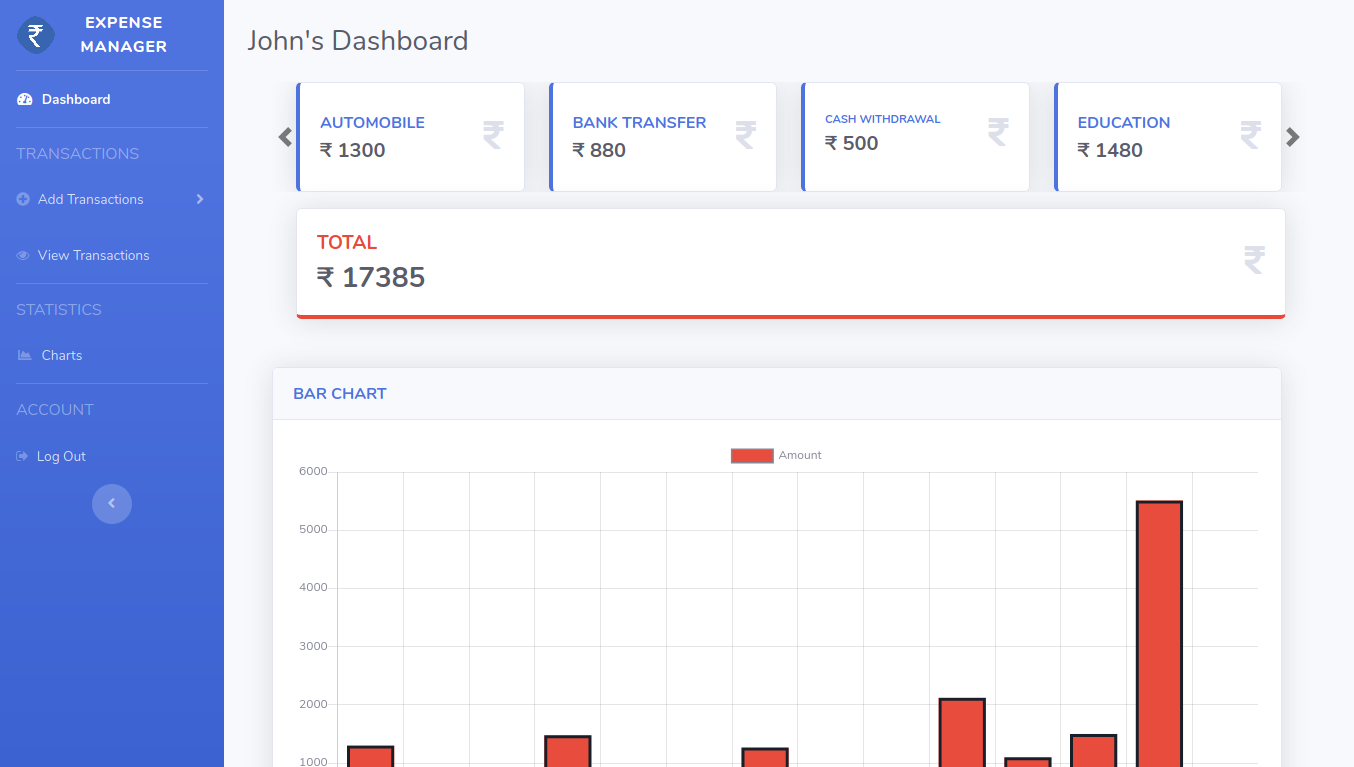
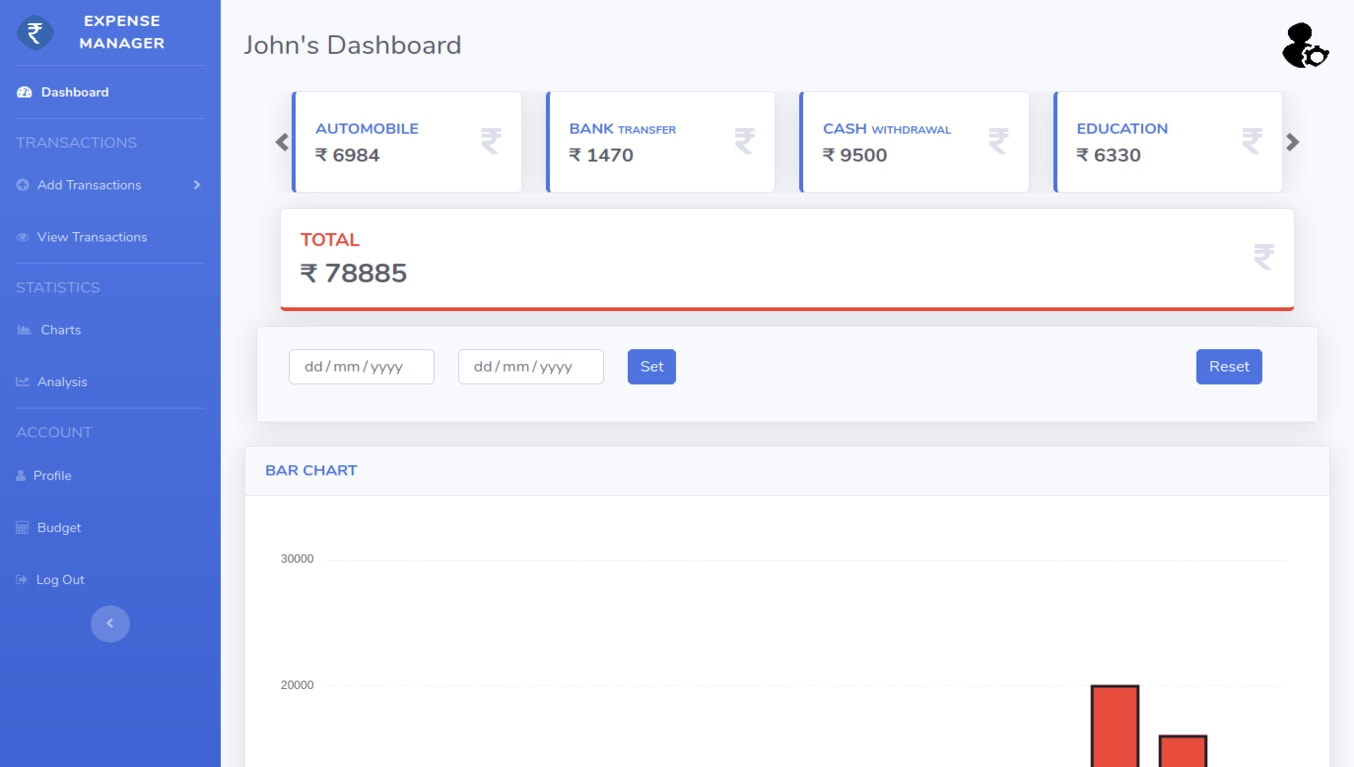
Add Demo for laptop users

diff --git a/templates/home.html b/templates/home.html
@@ -29,7 +29,7 @@
     <meta charset="utf-8">
     <link href="https://fonts.googleapis.com/css?family=Nunito:200,200i,300,300i,400,400i,600,600i,700,700i,800,800i,900,900i"
           rel="stylesheet">
-    <meta name="viewport" content="width=device-width, initial-scale=1, shrink-to-fit=no">
+    <meta name="viewport" content="width=smartphone-width, initial-scale=1, shrink-to-fit=no">
     <link href="{% static 'imp/vendor/fontawesome-free/css/all.min.css' %}" rel="stylesheet" type="text/css">
     <link href="{% static 'imp/css/sb-admin-2.min.css' %}" rel="stylesheet">
     <!-- Bootstrap CSS -->
@@ -193,6 +193,186 @@
     });
 </script>
 
+<!-- MAC DEMO AREA STARTS -->
+
+<style>
+
+    .device {
+        position: relative;
+        background-size: auto;
+    }
+
+    .device-mockup.imac {
+        padding-bottom: 81.230769%;
+    }
+
+    .device-mockup {
+        position: relative;
+        width: 100%;
+        padding-bottom: 61.775701%;
+    }
+
+
+    .device-mockup.imac > .device {
+        background-image: url("https://d1r27dnp1fh4g5.cloudfront.net/i/imac.webp");
+    }
+
+    .device-mockup > .device {
+        position: absolute;
+        top: 0;
+        right: 0;
+        bottom: 0;
+        left: 0;
+        width: 100%;
+        height: 100%;
+        background-repeat: no-repeat;
+        background-size: 100% 100%;
+    }
+
+    .device-mockup.imac > .device > .screen {
+        top: 8.20707071%;
+        right: 6.61538462%;
+        bottom: 31.6919192%;
+        left: 6.61538462%;
+    }
+
+    .device-mockup > .device > .screen {
+        position: absolute;
+        top: 11.0438729%;
+        right: 13.364486%;
+        bottom: 14.6747352%;
+        left: 13.364486%;
+        overflow: hidden;
+        overflow-y: hidden;
+    }
+
+    .device .screen {
+        position: absolute;
+        pointer-events: none;
+        background-size: cover;
+    }
+
+    * {
+        -webkit-box-sizing: border-box;
+        -moz-box-sizing: border-box;
+        box-sizing: border-box;
+    }
+
+</style>
+
+<div class="container-fluid d-none d-xl-block">
+    <div class="row heading heading-icon mt-5 mb-auto">
+        <h2>Quick Demo</h2>
+    </div>
+    <div class="device-mockup imac mb-small col-lg-12 mx-auto">
+        <div class="device">
+            <div class="screen" style="overflow-y: auto; pointer-events: all;">
+                <iframe src="http://127.0.0.1:8001/dashboard"
+                        allowfullscreen="allowfullscreen" allowpaymentrequest="" style="position: absolute;"
+                        width="100%"
+                        height="100%" frameborder="0"></iframe>
+            </div>
+        </div>
+    </div>
+</div>
+
+
+<!-- MAC DEMO AREA ENDS -->
+
+
+<!-- IPHONE DEMO AREA STARTS -->
+
+<style>
+
+    .smartphone {
+        position: relative;
+        background-size: auto;
+    }
+
+    .smartphone-mockup.imac {
+        padding-bottom: 81.230769%;
+    }
+
+    .smartphone-mockup {
+        position: relative;
+        width: 100%;
+        padding-bottom: 61.775701%;
+    }
+
+
+    .smartphone-mockup.imac > .smartphone {
+        background-image: url("/static/images/iphone.png");
+        /*width: 400px;*/
+        /*height: 500px;*/
+    }
+
+    .smartphone-mockup > .smartphone {
+        position: absolute;
+        top: 0;
+        right: 0;
+        bottom: 0;
+        left: 0;
+        width: 100%;
+        height: 100%;
+        background-repeat: no-repeat;
+        background-size: 100% 100%;
+    }
+
+    .smartphone-mockup.imac > .smartphone > .screen {
+        top: 21.62%;
+        right: 33.64%;
+        bottom: 22.38%;
+        left: 34.87%;
+    }
+
+    .smartphone-mockup > .smartphone > .screen {
+        position: absolute;
+        /*top: 11.0438729%;*/
+        /*right: 13.364486%;*/
+        /*bottom: 14.6747352%;*/
+        /*left: 13.3644%;*/
+        /*overflow: auto;*/
+        /*overflow-y: auto;*/
+    }
+
+    .smartphone .screen {
+        position: absolute;
+        pointer-events: none;
+        background-size: auto;
+    }
+
+    /** {*/
+    /*    -webkit-box-sizing: border-box;*/
+    /*    -moz-box-sizing: border-box;*/
+    /*    box-sizing: border-box;*/
+    /*}*/
+
+</style>
+
+
+<!--<div class="container-fluid mt-5 ">-->
+<!--    <div class="col-xs-10 mx-auto">-->
+<!--        <div class="row heading heading-icon">-->
+<!--            <h2>Quick Demo</h2>-->
+<!--        </div>-->
+<!--        <div class="smartphone-mockup imac mb-small">-->
+<!--            <div class="smartphone img-fluid" style="max-width: 100%; height: auto;">-->
+<!--                <div class="screen" style="overflow-y: auto; pointer-events: all;">-->
+<!--                    <iframe src="http://127.0.0.1:8001/dashboard"-->
+<!--                            allowfullscreen="allowfullscreen" allowpaymentrequest="" style="position: absolute;"-->
+<!--                            width="100%"-->
+<!--                            height="100%" frameborder="0">-->
+<!--                    </iframe>-->
+<!--                </div>-->
+<!--            </div>-->
+<!--        </div>-->
+<!--    </div>-->
+<!--    <div class="col-lg-1"></div>-->
+
+<!--</div>-->
+
+<!-- IPHONE DEMO AREA ENDS -->
+
 
 <!-- TECHNOLOGY STACK USED-->
 
@@ -326,93 +506,6 @@
     </div>
 </section>
 
-<!-- EXPREIMENT AREA STARTS -->
-
-<!--<div class="container">-->
-<!--        <iframe class="" src="http://127.0.0.1:8000/login" width="1200" height="800"></iframe>-->
-<!--</div>-->
-
-
-<style>
-
-    .device {
-        position: relative;
-        background-size: auto;
-    }
-
-    .device-mockup.imac {
-        padding-bottom: 81.230769%;
-    }
-
-    .device-mockup {
-        position: relative;
-        width: 100%;
-        padding-bottom: 61.775701%;
-    }
-
-
-    .device-mockup.imac > .device {
-        background-image: url("https://d1r27dnp1fh4g5.cloudfront.net/i/imac.webp");
-    }
-
-    .device-mockup > .device {
-        position: absolute;
-        top: 0;
-        right: 0;
-        bottom: 0;
-        left: 0;
-        width: 100%;
-        height: 100%;
-        background-repeat: no-repeat;
-        background-size: 100% 100%;
-    }
-
-    .device-mockup.imac > .device > .screen {
-        top: 8.20707071%;
-        right: 6.61538462%;
-        bottom: 31.6919192%;
-        left: 6.61538462%;
-    }
-
-    .device-mockup > .device > .screen {
-        position: absolute;
-        top: 11.0438729%;
-        right: 13.364486%;
-        bottom: 14.6747352%;
-        left: 13.364486%;
-        overflow: hidden;
-        overflow-y: hidden;
-    }
-
-    .device .screen {
-        position: absolute;
-        pointer-events: none;
-        background-size: cover;
-    }
-
-    * {
-        -webkit-box-sizing: border-box;
-        -moz-box-sizing: border-box;
-        box-sizing: border-box;
-    }
-
-</style>
-
-<!--<div>-->
-<!--    <div class="device-mockup imac mb-small">-->
-<!--        <div class="device">-->
-<!--            <div class="screen" style="overflow-y: auto; pointer-events: all;">-->
-<!--                <iframe src="http://127.0.0.1:8000/login"-->
-<!--                        allowfullscreen="allowfullscreen" allowpaymentrequest="" style="position: absolute;"-->
-<!--                        width="100%"-->
-<!--                        height="100%" frameborder="0"></iframe>-->
-<!--            </div>-->
-<!--        </div>-->
-<!--    </div>-->
-<!--</div>-->
-<!-- EXPREIMENT AREA STARTS -->
-
-
 <style>
     .row.heading h2 {
         color: #fff;
@@ -420,8 +513,6 @@
         line-height: 95px;
         font-weight: 400;
         text-align: center;
-        margin: 0 0 40px;
-        padding-bottom: 20px;
         text-transform: uppercase;
     }
 
